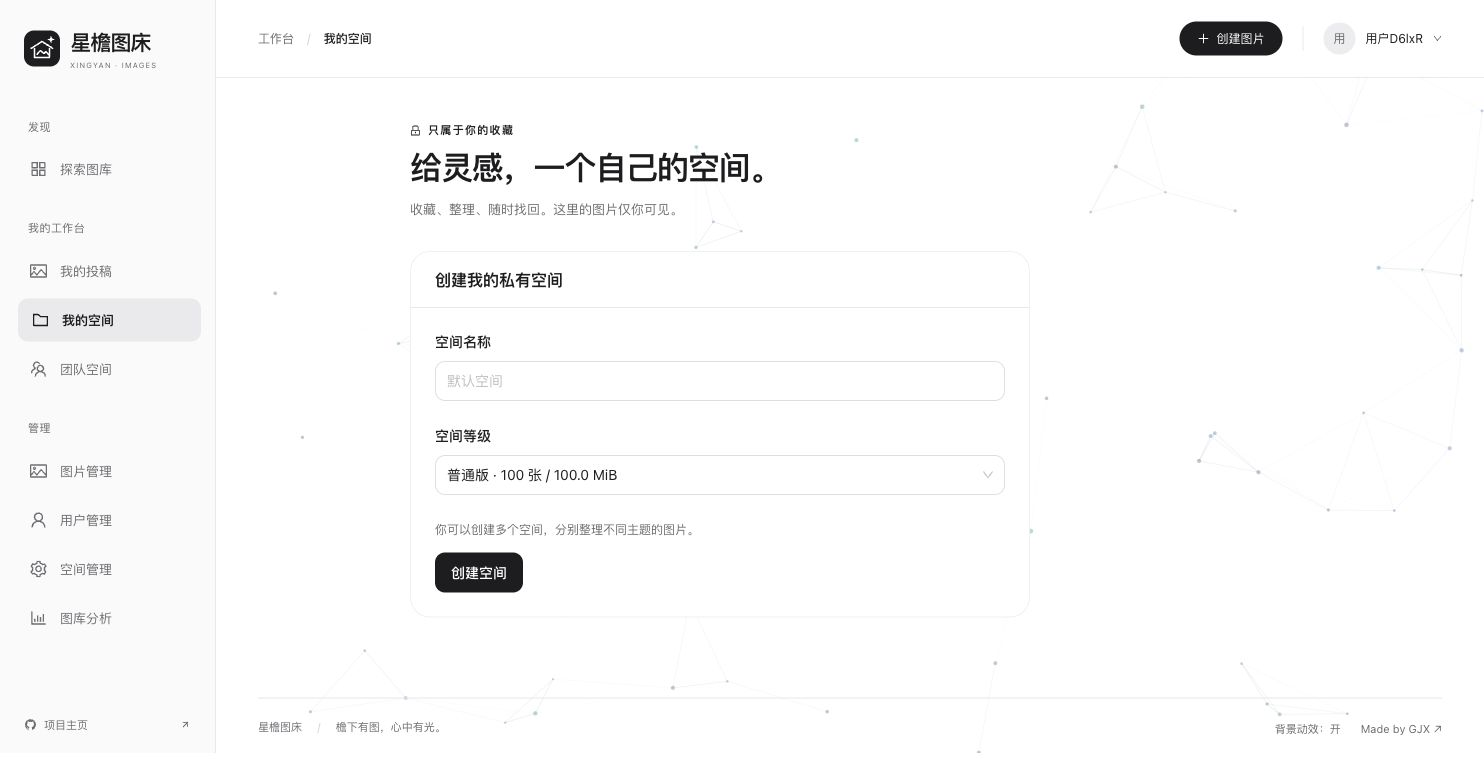
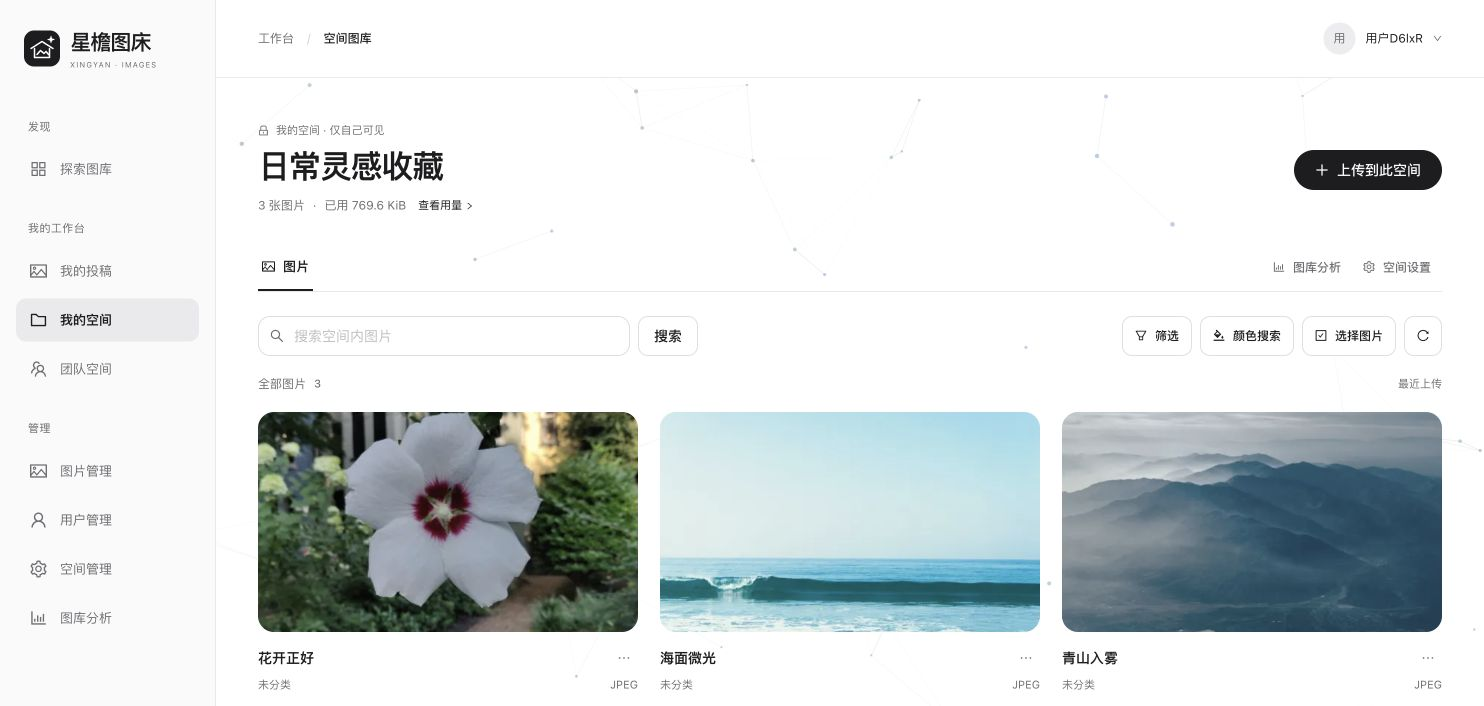
docs: complete private storage acceptance and space screenshots

diff --git a/docs/private-space-acceptance.md b/docs/private-space-acceptance.md
@@ -1,0 +1,40 @@
+# 私有空间线上验收与配图
+
+2026 年 10 月 30 日完成。验收与两张截图拍摄时，后端为 `7e8735b`，前端为 `a5eb976`。收尾时监督方于 20:17 上线前端第二批 `b340a56`；本次提交已先快进同步该提交，没有重新部署或覆盖界面改动。
+
+## 访问验收
+
+| 场景 | 实测结果 |
+| --- | --- |
+| 拥有者 | 两空间均可上传、保存图片信息；首张的原图、展示图、缩略图均实际加载成功 |
+| 匿名 COS 直读 | 6 张图片 × 3 种变体，共 18 个对象均 HTTP 403 |
+| 匿名应用读取 | 18 个请求均业务码 40100，data 为 null |
+| 普通非成员 | 个人图 34、团队图 35 三种变体均业务码 40101 |
+| 临时团队浏览者 | 图 35 三种变体均 HTTP 200，返回图片内容；Cache-Control 为 private, no-store，Vary 包含 Cookie |
+| 团队撤权 | 移除本次测试成员后，原会话再次读取三种变体均立即返回 40101 |
+| 隔离与清理 | 公共图库仍为 13 张且无私有记录；个人、团队各 3 张；公私文件清理队列均为 0 |
+
+临时测试成员已撤回并退出会话，原创建者不变。测试账号 `2116137838037700609` 是本次验收新注册的普通账号，事前未单独征得确认，已按监督意见如实记录。用户随后明确选择保留作验收审计；该账号无图片、无团队权限，临时凭据与会话文件已删除，不再使用。不修改 AI 任务；核对前后整表摘要一致。匿名拒绝只阻止后续请求，无法收回已经下载的文件。
+
+拥有者验收通过真实浏览器完成，普通账号与匿名验收经正常 HTTP 接口完成；没有从浏览器提取 Cookie，也没有伪造 Redis 会话或直接修改数据库授权。
+
+## 配图来源
+
+六张图复用 2026-10-28 公共图库配图时留存的 Wikimedia Commons CC0 许可记录；作者、来源和许可已写入各自的图片简介。本次不修改原公共图库中的图片。
+
+| 空间 | 图片 ID / 名称 | 作者 | 来源与许可 |
+| --- | --- | --- | --- |
+| 日常灵感收藏 | 34 / 青山入雾 | Jay Mantri | [Wikimedia Commons](https://commons.wikimedia.org/wiki/File:Mountain_Range_(Tumblr).jpg)，CC0 1.0 |
+| 日常灵感收藏 | 38 / 海面微光 | Jay Mantri | [Wikimedia Commons](https://commons.wikimedia.org/wiki/File:Sea_(Tumblr).jpg)，CC0 1.0 |
+| 日常灵感收藏 | 39 / 花开正好 | Kurt Kaiser | [Wikimedia Commons](https://commons.wikimedia.org/wiki/File:Flower_full_bloom.jpg)，CC0 1.0 |
+| 星檐共创素材库 | 35 / 萨金特笔下的牧野 | John Singer Sargent / The Metropolitan Museum of Art | [Wikimedia Commons](https://commons.wikimedia.org/wiki/File:Landscape_with_Goatherd_MET_DT2941.jpg)，CC0 1.0 |
+| 星檐共创素材库 | 36 / 田园与牧人 | Robert Seldon Duncanson / The Metropolitan Museum of Art | [Wikimedia Commons](https://commons.wikimedia.org/wiki/File:Landscape_with_Shepherd_MET_DT10421.jpg)，CC0 1.0 |
+| 星檐共创素材库 | 37 / 海天之间 | Joselodos | [Wikimedia Commons](https://commons.wikimedia.org/wiki/File:Sea_sky_and_clouds,_Ibiza,_Spain.jpg)，CC0 1.0 |
+
+## 截图范围
+
+`docs/images/personal-space.jpg` 和 `docs/images/team-space.jpg` 均在实际线上登录态拍摄，三张缩略图加载完成后保存，未修改 DOM 或拼接内容。README 只更新这两个同名文件与对应的 `<sub>` 说明，保留监督方其余结构和截图。
+
+## 运维限制
+
+只读 GetBucketLocation 已确认私有桶地域为 `ap-guangzhou`。当前公共客户端地域仍为 `ap-nanjing`，私有读写依赖独立显式加速开关；关闭私有加速会导致私有桶不可用。不要通过修改公共地域来修复，也不要放宽 ACL。详见 [COS 加速说明](cos-global-acceleration.md)。

diff --git a/docs/cos-global-acceleration.md b/docs/cos-global-acceleration.md
@@ -65,6 +65,12 @@ picture:
 
 私有读取、上传、删除和派生对象 ACL 操作复用该 COSClient；数据库仍保存地域形式的内部引用，私有图片经应用鉴权代理返回，不向客户端重定向到 COS。加速开关不会放宽 ACL，也不能代替拥有者、未授权成员、撤权后的访问验收。
 
-2026-10-30：7e8735b 已发布，生产私有存储和私有桶加速显式开启；加速端点完整权限预检通过，匿名 COS 测试对象读取返回 403。应用三个私有变体入口匿名访问返回业务码 40100。真实私有图片的身份矩阵与 README 截图尚待登录后验收，不能据此宣称阶段 6 全部完成。
+2026-10-30：7e8735b 已发布，生产私有存储和私有桶加速显式开启；加速端点完整权限预检通过，匿名 COS 测试对象读取返回 403。应用三个私有变体入口匿名访问返回业务码 40100。当天后续已完成真实私有图片身份矩阵，两个空间各保存 3 张有来源许可的图片，并拍摄 README 对应截图；见 [线上验收记录](private-space-acceptance.md)。
 
 新增回归同时覆盖公共桶加速开关两种状态下的私有桶显式加速、第三桶隔离，以及缺私有桶配置时拒绝启动；原默认不隐式加速测试保留。
+
+### 当前生产的地域约束（2026-10-30）
+
+经带认证的只读 GetBucketLocation 查询，私有桶实际地域为 `ap-guangzhou`。公共桶仍使用 `cos.client.region=ap-nanjing`；当前实现没有独立私有地域配置，私有对象内部引用也沿用这一地域格式，由后端验证后按桶和对象 key 读取。线上私有请求通过独立显式加速开关访问无地域的全球加速端点，已通过真实图片读写及权限验收。
+
+**关闭 `picture.private-storage.accelerate-enabled` 会导致当前私有桶不可用。** 不要为此改动公共桶地域，不要直接关闭加速；若要支持私有地域入口，需要先授权单独的代码修改、配置和迁移兼容验收。本轮未实施该扩展，也未修改桶 ACL。

diff --git a/README.md b/README.md
@@ -69,7 +69,7 @@
 
 ![线上个人图床：私有空间的创建入口与容量等级](docs/images/personal-space.jpg)
 
-<sub>截图是线上账号尚未创建个人空间时的实际页面。</sub>
+<sub>「日常灵感收藏」已收录 3 张 CC0 图片，展示个人空间的图片列表、搜索、容量用量与上传入口；每张图片的简介均保留作者、来源和许可。</sub>
 
 ### 团队图床：一起用的素材，交给「团队空间」
 
@@ -77,7 +77,7 @@
 
 ![线上团队图床：团队空间入口、创建按钮与成员角色说明](docs/images/team-space.jpg)
 
-<sub>截图是线上账号尚未加入团队时的实际页面。</sub>
+<sub>「星檐共创素材库」已收录 3 张 CC0 图片，展示团队图库、成员管理与空间用量入口；已实测成员可读、非成员被拒绝，以及撤权后同一会话立即失效。</sub>
 
 > 个人与团队空间里的图片存放在独立的私有存储桶中，匿名访问会被拒绝。部署自己的实例时，需要按[启动指南](docs/getting-started.md)单独配置私有存储。
 
